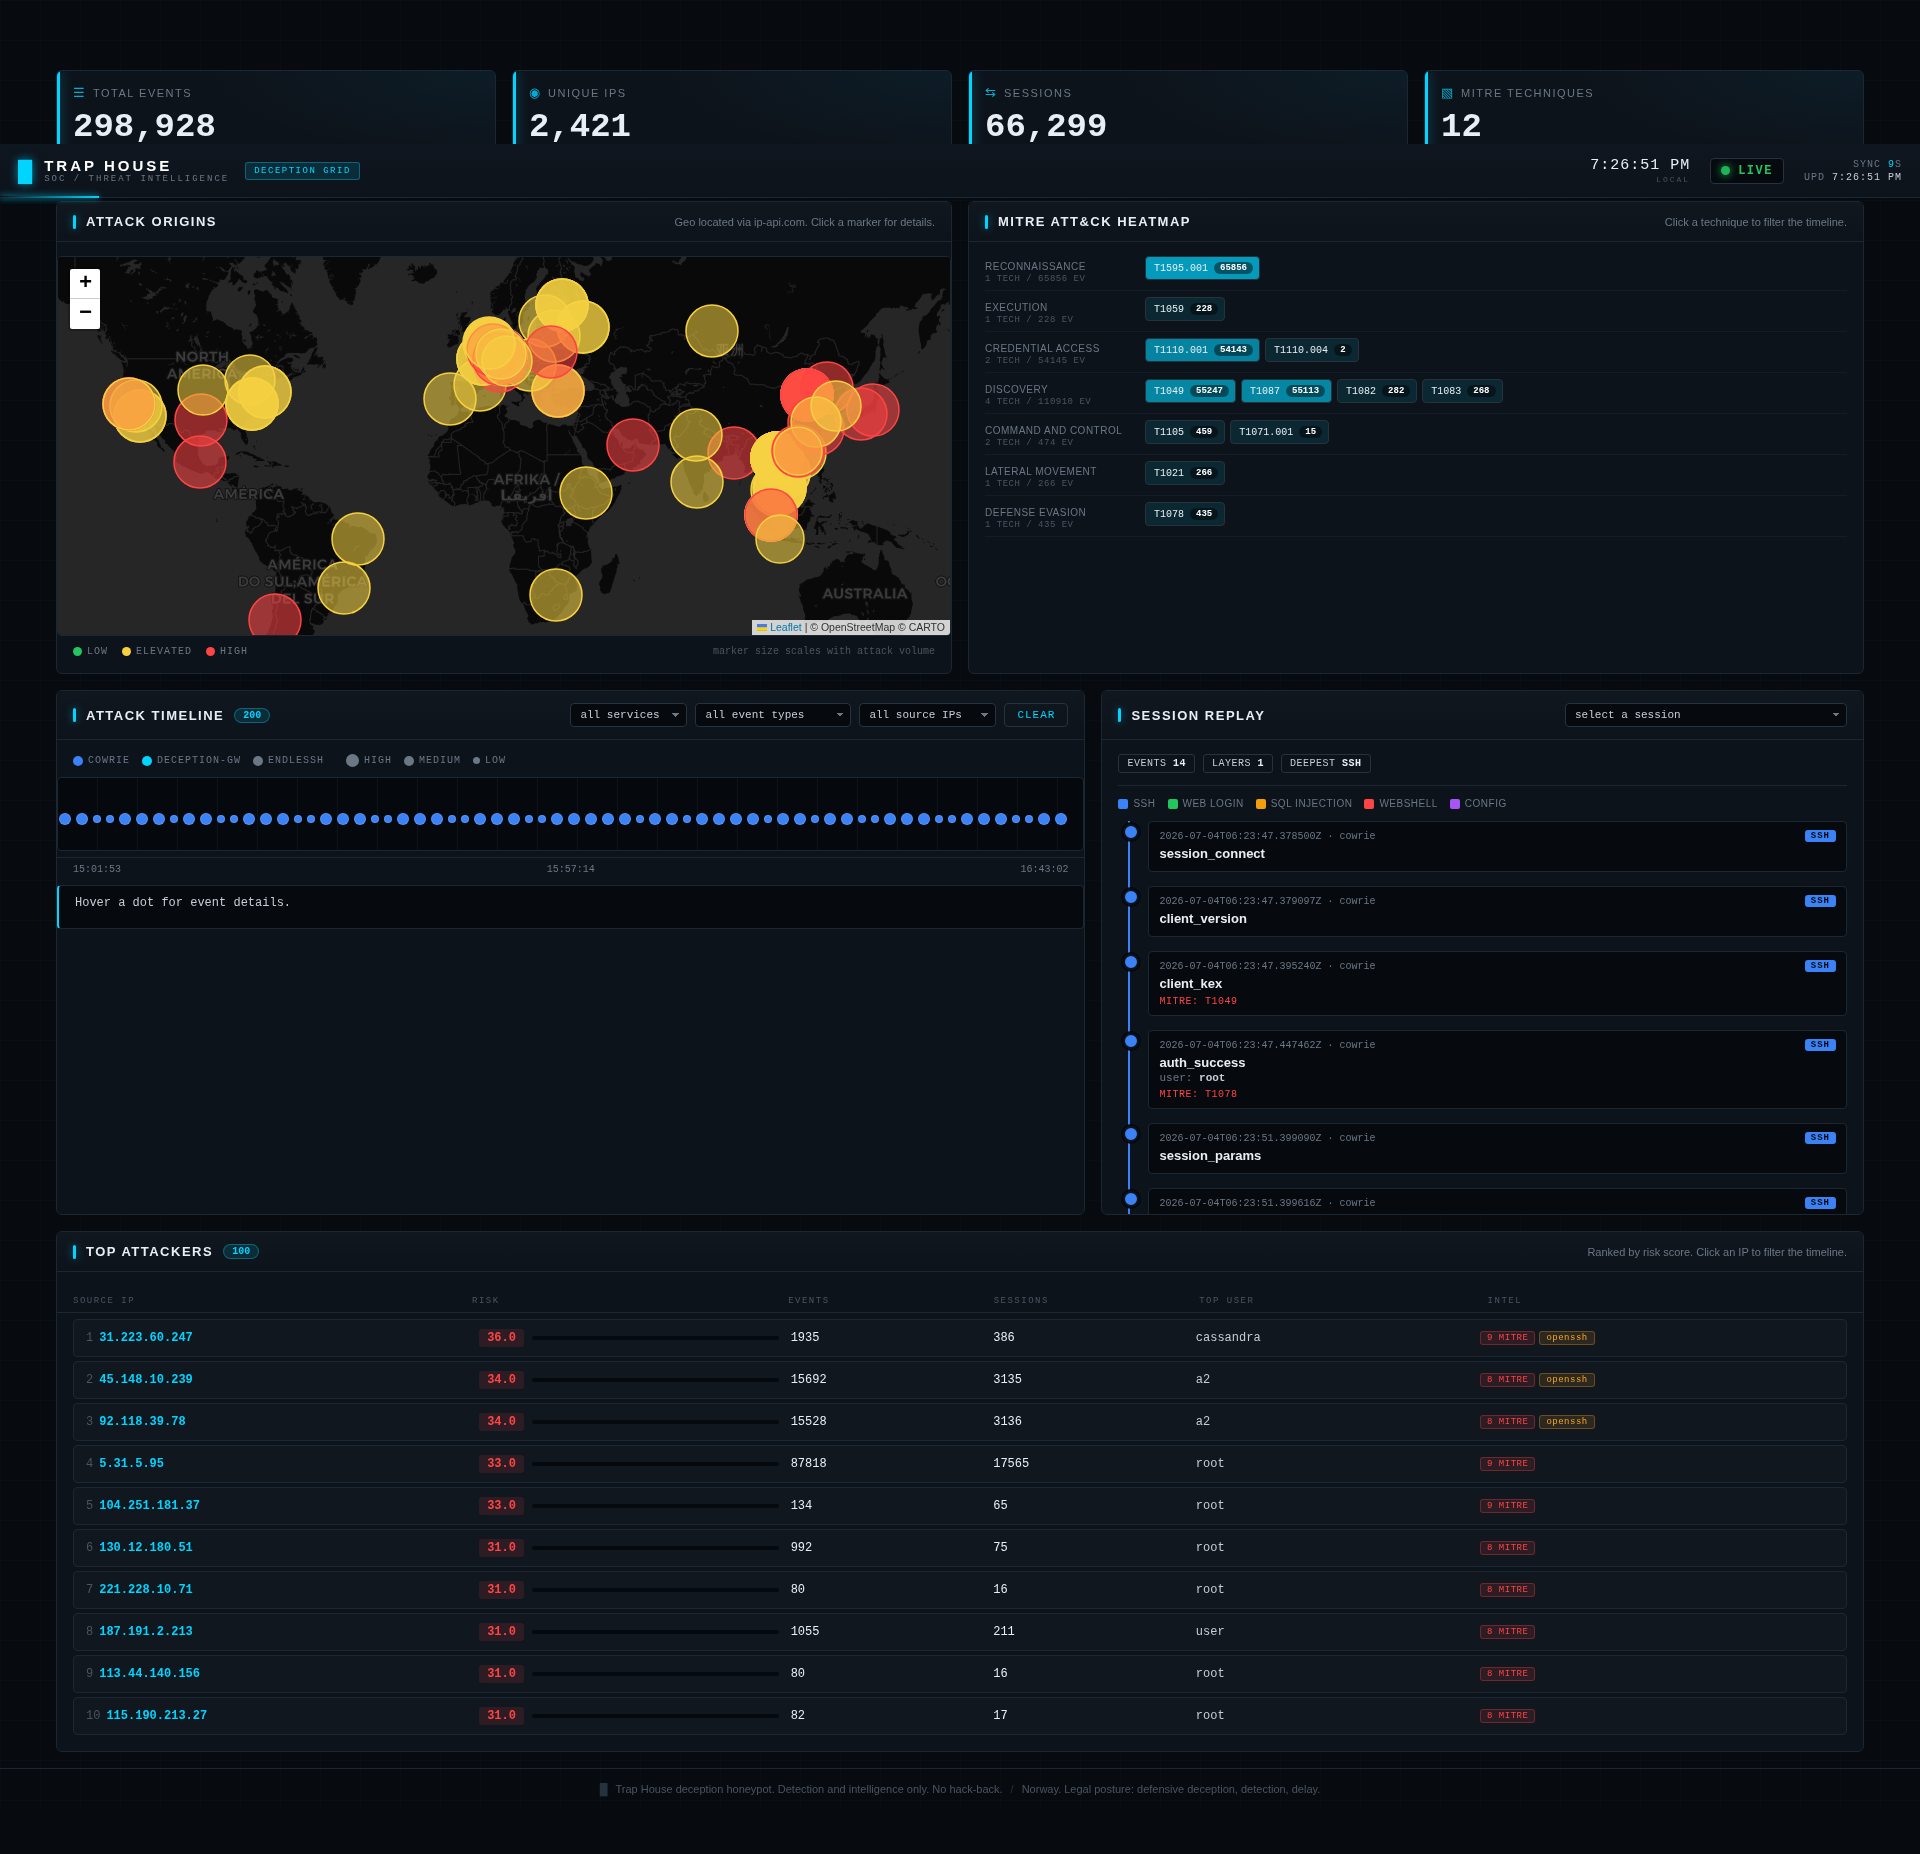
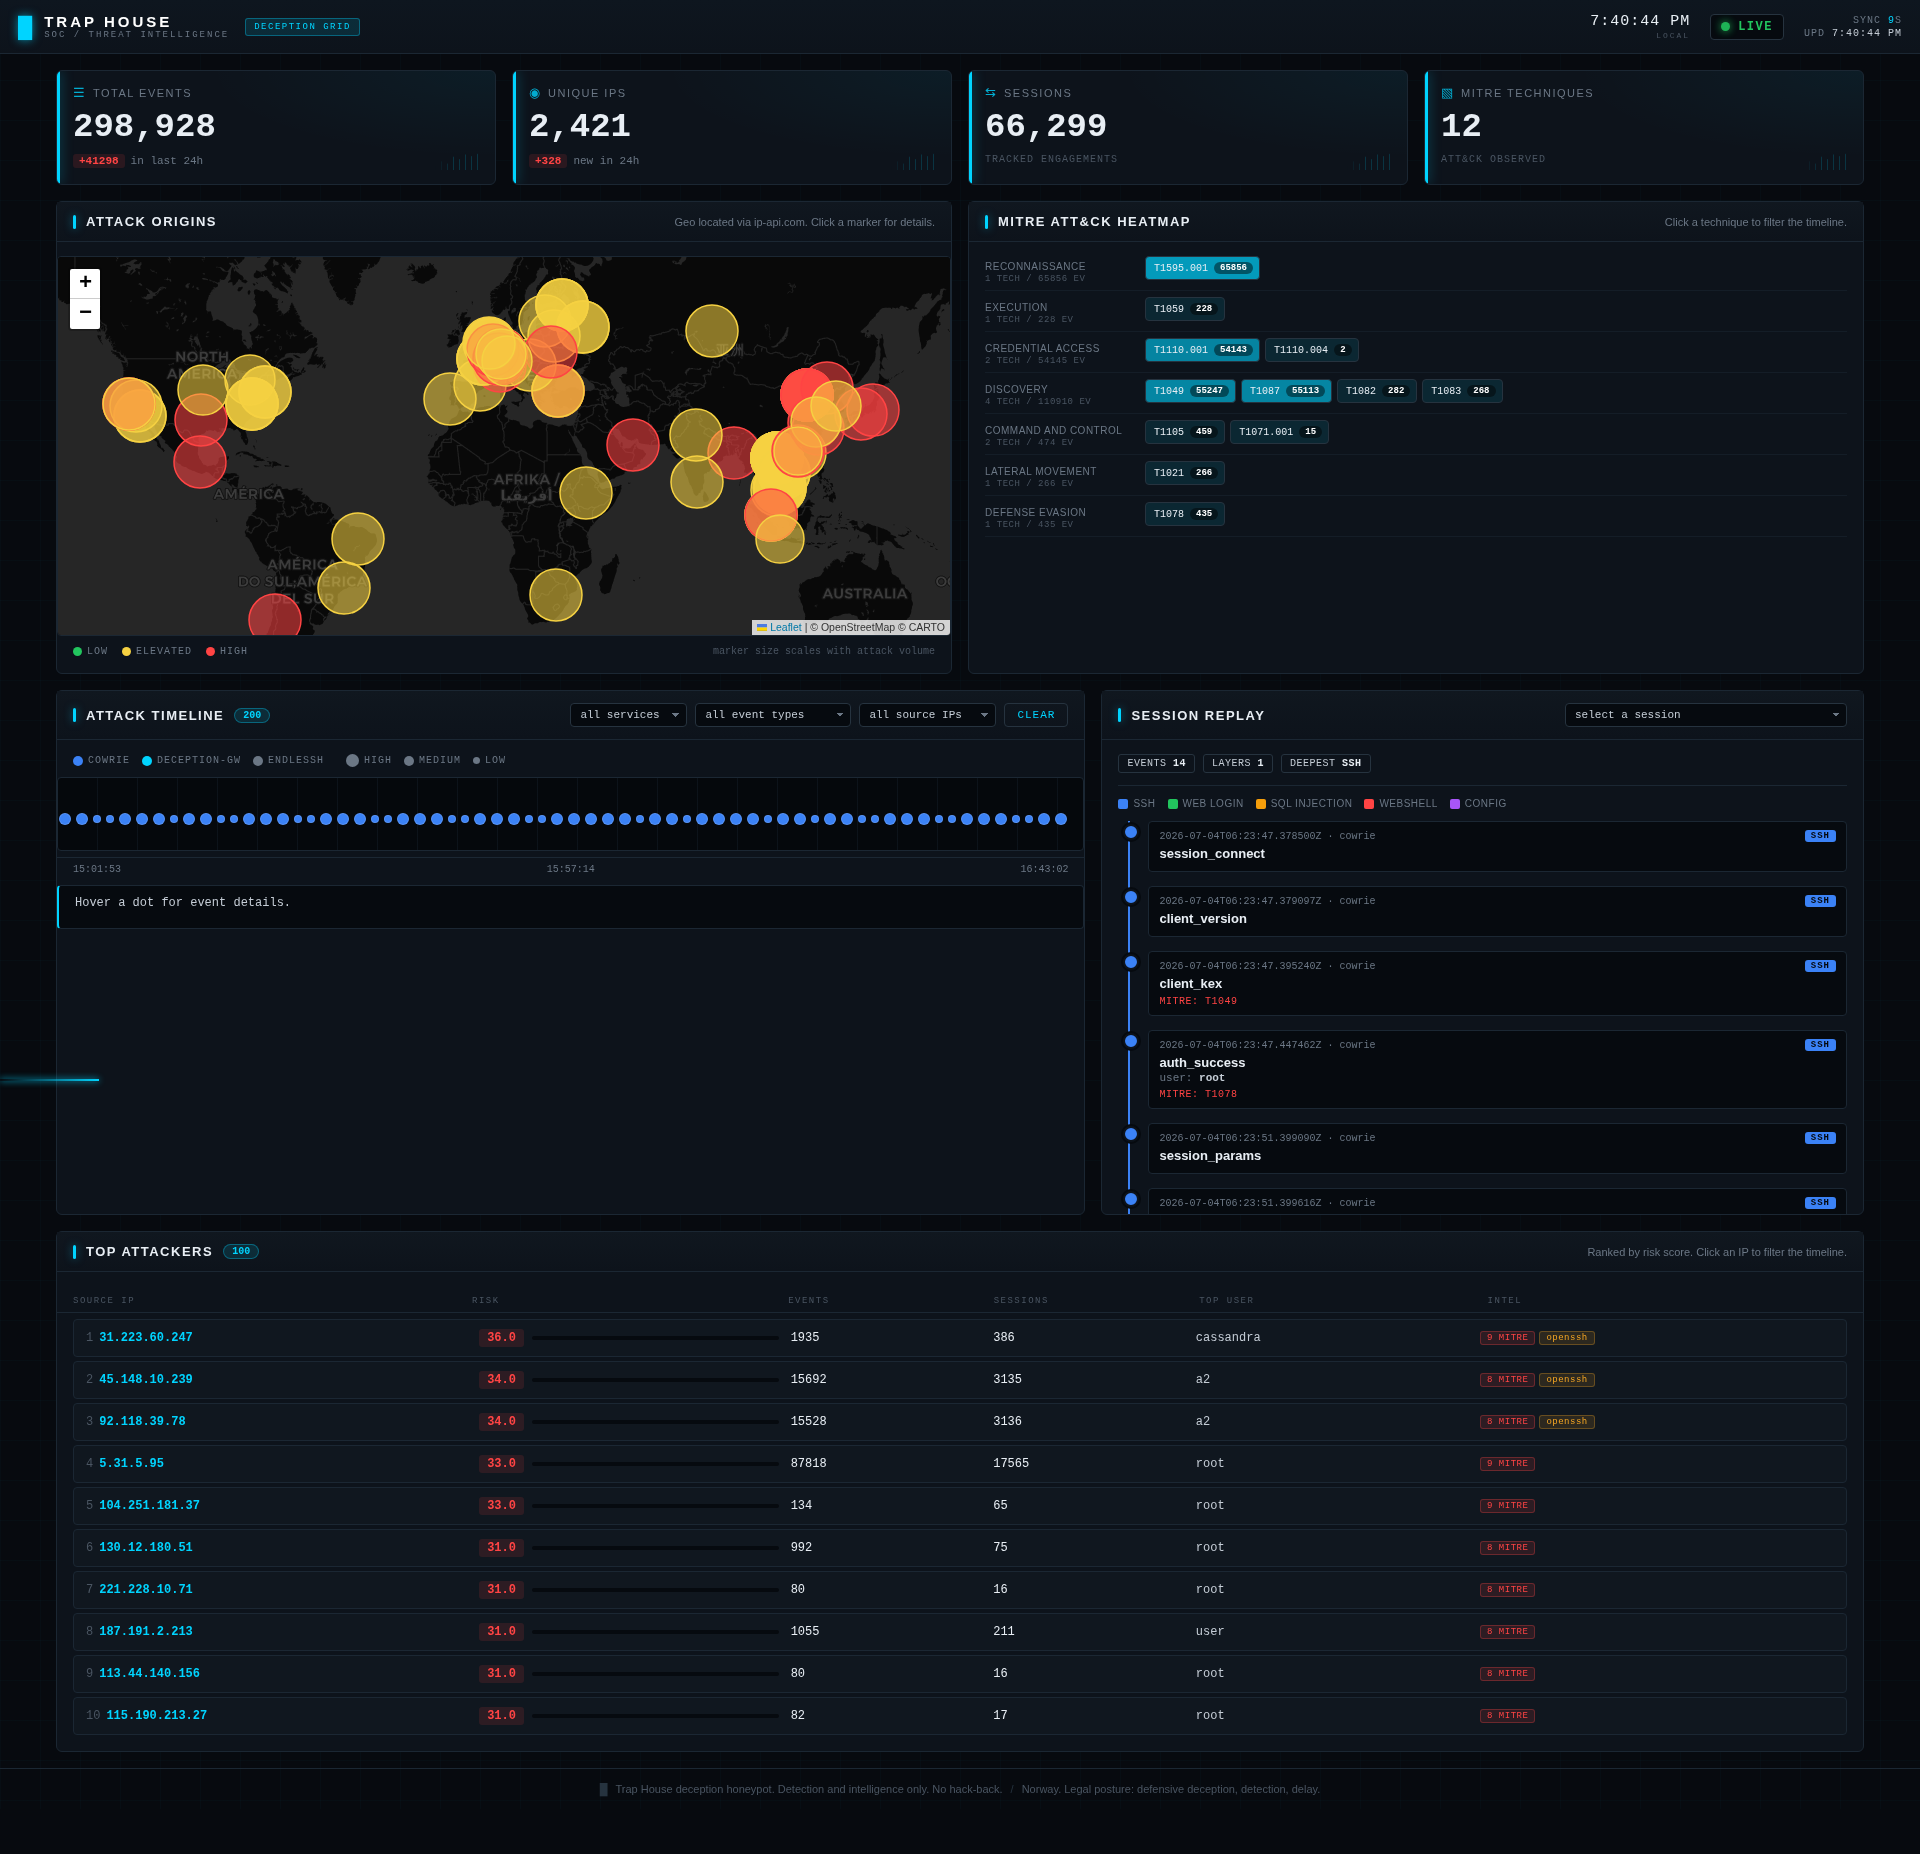
Fix dashboard captures and smooth README animation

diff --git a/scripts/capture_outlaw_replay.py b/scripts/capture_outlaw_replay.py
@@ -64,6 +64,7 @@ with sync_playwright() as p:
     
     # Also capture the full dashboard with the Outlaw replay loaded
     print("Capturing dashboard-full-with-replay.png...")
+    page.add_style_tag(content=".topnav { position: static !important; }")
     page.screenshot(path=f"{OUT}/dashboard-full-with-replay.png", full_page=True)
     print("done")
 

diff --git a/scripts/capture_outlaw_force.py b/scripts/capture_outlaw_force.py
@@ -59,6 +59,7 @@ with sync_playwright() as p:
 
     # Capture the full page with the Outlaw replay
     print("Capturing dashboard-full-with-outlaw-replay.png...")
+    page.add_style_tag(content=".topnav { position: static !important; }")
     page.screenshot(path=f"{OUT}/dashboard-full-with-outlaw-replay.png", full_page=True)
     print("done")
 

diff --git a/scripts/capture_screenshots.py b/scripts/capture_screenshots.py
@@ -32,6 +32,7 @@ with sync_playwright() as p:
 
     # Screenshot 2: Full page scroll
     print("Capturing dashboard-fullpage.png...")
+    page.add_style_tag(content=".topnav { position: static !important; }")
     page.screenshot(path=f"{OUT}/dashboard-fullpage.png", full_page=True)
     print("done")
 

diff --git a/scripts/capture_sections.py b/scripts/capture_sections.py
@@ -48,6 +48,7 @@ with sync_playwright() as p:
 
     # 5. Full dashboard (all sections)
     print("5. Capturing dashboard-full.png...")
+    page.add_style_tag(content=".topnav { position: static !important; }")
     page.screenshot(path=f"{OUT}/dashboard-full.png", full_page=True)
     print("   done")
 

diff --git a/README.md b/README.md
@@ -2,7 +2,9 @@
 
 **A multi-layer deception honeypot that lures attackers into an endless maze of decoy services, then maps every move to MITRE ATT&CK.**
 
-![Animated kill chain of the Outlaw/RedTail cryptomining intrusion captured by Trap House, rendered as a dark SOC-style motion graphic showing brute force, discovery, tool transfer, persistence, and execution](docs/img/outlaw-killchain.gif)
+<a href="docs/img/outlaw-killchain.mp4"><img src="docs/img/outlaw-killchain.gif" alt="Animated kill chain of the Outlaw or RedTail cryptomining intrusion captured by Trap House, rendered as a dark SOC style motion graphic showing brute force, discovery, tool transfer, persistence, and execution"></a>
+
+[Open the full 60 FPS MP4](docs/img/outlaw-killchain.mp4)
 
 *The Outlaw or RedTail intrusion chain, reconstructed from the final live collection. Full analysis in [RESULTS.md](RESULTS.md) and [docs/final-report.md](docs/final-report.md).*
 
